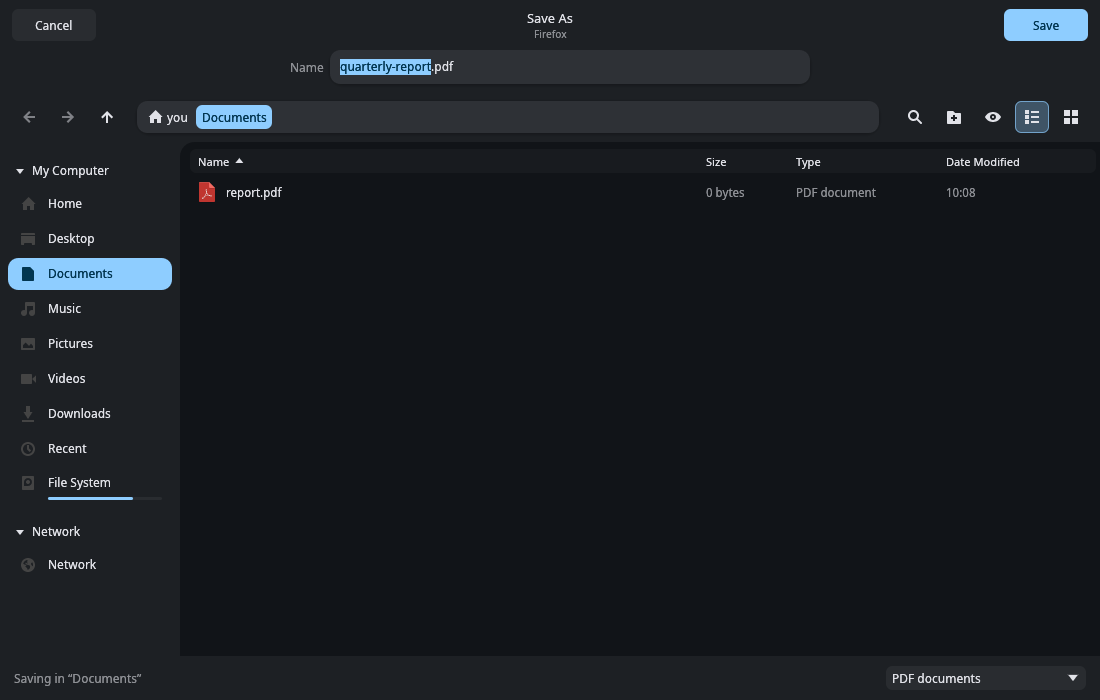
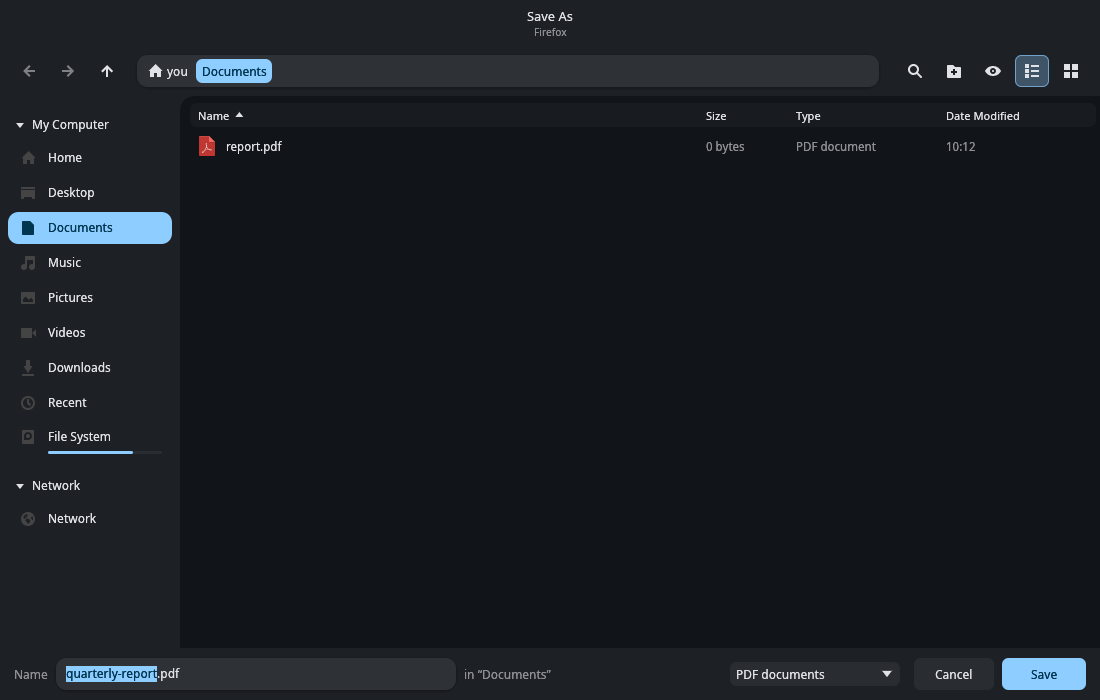
File picker: opens again after updates; controls back in the bottom strip
- The picker service started each window with current_exe(), which after
  a rebuild or update is the deleted old file, so no window appeared. It
  now uses the command it was started with (argv[0]), falling back to
  current_exe without " (deleted)".
- Turning the picker on asks the session bus to reload its services, so
  the portal's first call no longer fails with "not activatable".
- A service that lost the bus name to a newer copy exits instead of idling.
- Name field, Cancel, Open/Save and the file types sit in one bottom
  strip again; the title stays at the top.

diff --git a/src/app/pickview.rs b/src/app/pickview.rs
@@ -21,18 +21,15 @@ impl RivetApp {
         self.apps.iter().find(|a| bare(&a.id) == bare(&id)).map(|a| a.name.clone())
     }
 
-    /// Header bar: Cancel · title (and the asking app) · Open / Save. Then the name field when
-    /// saving. Call right after the window header so these sit at the very top.
+    /// The title across the top (and the app asking, under it). Call right after the window
+    /// header so it sits at the very top.
     pub(super) fn picker_header(&mut self, ui: &mut egui::Ui, ctx: &egui::Context) {
         let Some(req) = picker::request() else { return };
         let fill = ctx.global_style().visuals.panel_fill;
         let app = self.picker_app_name();
-        let mut accept = false;
-        let mut cancel = false;
-        egui::Panel::top("picker-head").show_separator_line(false).frame(egui::Frame::NONE.fill(fill).inner_margin(egui::Margin::symmetric(12, 8))).show(ui, |ui| {
+        egui::Panel::top("picker-head").show_separator_line(false).frame(egui::Frame::NONE.fill(fill).inner_margin(egui::Margin::symmetric(12, 6))).show(ui, |ui| {
             let v = ui.visuals().clone();
-            let (rect, _) = ui.allocate_exact_size(Vec2::new(ui.available_width(), 34.0), Sense::hover());
-            // The title in the middle of the bar, the app below it in small type.
+            let (rect, _) = ui.allocate_exact_size(Vec2::new(ui.available_width(), if app.is_some() { 34.0 } else { 24.0 }), Sense::hover());
             let title = req.window_title();
             let painter = ui.painter();
             match &app {
@@ -44,69 +41,93 @@ impl RivetApp {
                     painter.text(rect.center(), Align2::CENTER_CENTER, &title, crate::fonts::ui_font(14.5), v.strong_text_color());
                 }
             }
-            let mut left = ui.new_child(egui::UiBuilder::new().max_rect(rect).layout(egui::Layout::left_to_right(egui::Align::Center)));
-            if left.add(egui::Button::new("Cancel").min_size(Vec2::new(84.0, 32.0))).on_hover_text("Esc").clicked() {
-                cancel = true;
-            }
-            let mut right = ui.new_child(egui::UiBuilder::new().max_rect(rect).layout(egui::Layout::right_to_left(egui::Align::Center)));
-            let c = v.selection.bg_fill;
-            let btn = egui::Button::new(egui::RichText::new(req.accept_label()).color(v.selection.stroke.color).strong()).fill(c).min_size(Vec2::new(84.0, 32.0));
-            if right.add_enabled(self.picker_ready(), btn).clicked() {
-                accept = true;
-            }
         });
-        if req.mode == Mode::Save {
-            egui::Panel::top("picker-name").show_separator_line(false).frame(egui::Frame::NONE.fill(fill).inner_margin(egui::Margin { left: 12, right: 12, top: 0, bottom: 8 })).show(ui, |ui| {
+    }
+
+    /// The bottom strip: the name field when saving (or what's chosen), the app's file types,
+    /// Cancel and Open / Save. Call before the other panels so it sits outermost.
+    pub(super) fn picker_bar(&mut self, ui: &mut egui::Ui, ctx: &egui::Context) {
+        let Some(req) = picker::request() else { return };
+        let fill = ctx.global_style().visuals.panel_fill;
+        let mut accept = false;
+        let mut cancel = false;
+        egui::Panel::bottom("picker").show_separator_line(false).frame(egui::Frame::NONE.fill(fill).inner_margin(egui::Margin::symmetric(14, 10))).show(ui, |ui| {
+            ui.horizontal(|ui| {
+                ui.set_min_height(32.0);
+                ui.spacing_mut().item_spacing.x = 8.0;
                 let v = ui.visuals().clone();
-                let w = ui.available_width().min(520.0);
-                let full = ui.available_width();
-                ui.horizontal(|ui| {
-                    ui.add_space((full - w) / 2.0);
-                    ui.allocate_ui_with_layout(Vec2::new(w, 34.0), egui::Layout::left_to_right(egui::Align::Center), |ui| {
-                        ui.label(egui::RichText::new("Name").color(v.weak_text_color()));
-                        // The same raised surface as the location bar (a plain box in terminal mode).
-                        let (field_bg, shadow, stroke) = if self.s.terminal {
-                            (v.extreme_bg_color, egui::Shadow::NONE, super::tui_line(&v))
-                        } else {
-                            (
-                                crate::palette::mix(v.window_fill, v.text_color(), 0.04),
-                                egui::Shadow { offset: [0, 1], blur: 6, spread: 0, color: egui::Color32::from_black_alpha(if v.dark_mode { 90 } else { 40 }) },
-                                egui::Stroke::NONE,
-                            )
-                        };
-                        let out = egui::Frame::NONE
-                            .fill(field_bg)
-                            .shadow(shadow)
-                            .stroke(stroke)
-                            .corner_radius(super::r_md())
-                            .inner_margin(egui::Margin::symmetric(10, 4))
-                            .show(ui, |ui| {
-                                egui::TextEdit::singleline(&mut self.pick_name)
-                                    .frame(egui::Frame::NONE)
-                                    .align(Align2::LEFT_CENTER)
-                                    .min_size(Vec2::new(0.0, 24.0))
-                                    .desired_width(f32::INFINITY)
-                                    .hint_text("File name")
-                                    .show(ui)
-                            })
-                            .inner;
-                        // First time: focus the name with the part before the extension selected.
-                        if self.pick_focus {
-                            self.pick_focus = false;
-                            out.response.request_focus();
-                            let stem = self.pick_name.rfind('.').filter(|&i| i > 0).unwrap_or(self.pick_name.len());
-                            let mut state = out.state.clone();
-                            let stem_chars = self.pick_name[..stem].chars().count();
-                            state.cursor.set_char_range(Some(egui::text::CCursorRange::two(egui::text::CCursor::new(0), egui::text::CCursor::new(stem_chars))));
-                            state.store(ui.ctx(), out.response.id);
+                if req.mode == Mode::Save {
+                    ui.label(egui::RichText::new("Name").color(v.weak_text_color()));
+                    // The same raised surface as the location bar (a plain box in terminal mode).
+                    let (field_bg, shadow, stroke) = if self.s.terminal {
+                        (v.extreme_bg_color, egui::Shadow::NONE, super::tui_line(&v))
+                    } else {
+                        (
+                            crate::palette::mix(v.window_fill, v.text_color(), 0.04),
+                            egui::Shadow { offset: [0, 1], blur: 6, spread: 0, color: egui::Color32::from_black_alpha(if v.dark_mode { 90 } else { 40 }) },
+                            egui::Stroke::NONE,
+                        )
+                    };
+                    let width = (ui.available_width() - 480.0).clamp(180.0, 380.0);
+                    let out = egui::Frame::NONE
+                        .fill(field_bg)
+                        .shadow(shadow)
+                        .stroke(stroke)
+                        .corner_radius(super::r_md())
+                        .inner_margin(egui::Margin::symmetric(10, 4))
+                        .show(ui, |ui| {
+                            egui::TextEdit::singleline(&mut self.pick_name)
+                                .frame(egui::Frame::NONE)
+                                .align(Align2::LEFT_CENTER)
+                                .min_size(Vec2::new(0.0, 24.0))
+                                .desired_width(width)
+                                .hint_text("File name")
+                                .show(ui)
+                        })
+                        .inner;
+                    // First time: focus the name with the part before the extension selected.
+                    if self.pick_focus {
+                        self.pick_focus = false;
+                        out.response.request_focus();
+                        let stem = self.pick_name.rfind('.').filter(|&i| i > 0).unwrap_or(self.pick_name.len());
+                        let mut state = out.state.clone();
+                        let stem_chars = self.pick_name[..stem].chars().count();
+                        state.cursor.set_char_range(Some(egui::text::CCursorRange::two(egui::text::CCursor::new(0), egui::text::CCursor::new(stem_chars))));
+                        state.store(ui.ctx(), out.response.id);
+                    }
+                    if out.response.lost_focus() && ui.input(|i| i.key_pressed(Key::Enter)) {
+                        accept = true;
+                    }
+                }
+                ui.label(egui::RichText::new(self.picker_summary()).color(v.weak_text_color()));
+                ui.with_layout(egui::Layout::right_to_left(egui::Align::Center), |ui| {
+                    let c = v.selection.bg_fill;
+                    let btn = egui::Button::new(egui::RichText::new(req.accept_label()).color(v.selection.stroke.color).strong()).fill(c).min_size(Vec2::new(84.0, 32.0));
+                    if ui.add_enabled(self.picker_ready(), btn).clicked() {
+                        accept = true;
+                    }
+                    if ui.add(egui::Button::new("Cancel").min_size(Vec2::new(80.0, 32.0))).on_hover_text("Esc").clicked() {
+                        cancel = true;
+                    }
+                    // The file-type list the app offered.
+                    if !req.filters.is_empty() && !req.folders_only() {
+                        ui.add_space(6.0);
+                        let current = picker::chosen_filter();
+                        let shown = current.and_then(|i| req.filters.get(i)).map(|f| f.name.clone()).unwrap_or_else(|| "All files".into());
+                        let mut pick = current;
+                        egui::ComboBox::from_id_salt("picker-type").selected_text(shown).width(170.0).show_ui(ui, |ui| {
+                            for (i, f) in req.filters.iter().enumerate() {
+                                ui.selectable_value(&mut pick, Some(i), f.name.as_str());
+                            }
+                        });
+                        if pick != current {
+                            picker::set_chosen_filter(pick);
+                            self.resort_all();
                         }
-                        if out.response.lost_focus() && ui.input(|i| i.key_pressed(Key::Enter)) {
-                            accept = true;
-                        }
-                    });
+                    }
                 });
             });
-        }
+        });
         // Esc closes the picker when there's nothing else for it to do.
         let idle = matches!(self.dialog, super::Dialog::None)
             && !self.search_open
@@ -126,38 +147,6 @@ impl RivetApp {
             self.picker_accept(ctx);
         }
         self.picker_confirm(ctx);
-    }
-
-    /// The bottom strip: what's chosen, and the app's file types. Call before the other panels
-    /// so it sits outermost.
-    pub(super) fn picker_bar(&mut self, ui: &mut egui::Ui, ctx: &egui::Context) {
-        let Some(req) = picker::request() else { return };
-        let fill = ctx.global_style().visuals.panel_fill;
-        egui::Panel::bottom("picker").show_separator_line(false).frame(egui::Frame::NONE.fill(fill).inner_margin(egui::Margin::symmetric(14, 8))).show(ui, |ui| {
-            ui.horizontal(|ui| {
-                ui.set_min_height(28.0);
-                let v = ui.visuals().clone();
-                let text = self.picker_summary();
-                ui.label(egui::RichText::new(text).color(v.weak_text_color()));
-                ui.with_layout(egui::Layout::right_to_left(egui::Align::Center), |ui| {
-                    // The file-type list the app offered.
-                    if !req.filters.is_empty() && !req.folders_only() {
-                        let current = picker::chosen_filter();
-                        let shown = current.and_then(|i| req.filters.get(i)).map(|f| f.name.clone()).unwrap_or_else(|| "All files".into());
-                        let mut pick = current;
-                        egui::ComboBox::from_id_salt("picker-type").selected_text(shown).width(200.0).show_ui(ui, |ui| {
-                            for (i, f) in req.filters.iter().enumerate() {
-                                ui.selectable_value(&mut pick, Some(i), f.name.as_str());
-                            }
-                        });
-                        if pick != current {
-                            picker::set_chosen_filter(pick);
-                            self.resort_all();
-                        }
-                    }
-                });
-            });
-        });
     }
 
     /// Right-click on an item while picking: choose it, and a few harmless extras.
@@ -223,7 +212,7 @@ impl RivetApp {
         }
         if req.mode == Mode::Save {
             let here = self.current_dir().and_then(|d| d.file_name().map(|n| n.to_string_lossy().to_string())).unwrap_or_else(|| "/".into());
-            return format!("Saving in “{here}”");
+            return format!("in “{here}”");
         }
         let files = sel.iter().filter(|e| !e.is_dir).count();
         match files {

diff --git a/src/portal.rs b/src/portal.rs
@@ -170,13 +170,29 @@ impl Chooser {
 }
 
 /// The program to run for each picker window: this one (or the AppImage it came from).
+///
+/// The command the service was started with comes first (`/usr/bin/rivet`): when Rivet is
+/// updated while this service runs, its own program file is replaced and `current_exe` points
+/// at the old, deleted one, which can't be started.
 fn picker_exe() -> PathBuf {
     if let (Some(img), Some(dir)) = (std::env::var_os("APPIMAGE"), std::env::var_os("APPDIR"))
         && std::env::current_exe().is_ok_and(|e| e.starts_with(&dir))
     {
         return PathBuf::from(img);
     }
-    std::env::current_exe().unwrap_or_else(|_| PathBuf::from("rivet"))
+    if let Some(arg0) = std::env::args_os().next().map(PathBuf::from)
+        && arg0.is_absolute()
+        && arg0.is_file()
+    {
+        return arg0;
+    }
+    match std::env::current_exe() {
+        Ok(e) => {
+            let s = e.to_string_lossy();
+            PathBuf::from(s.strip_suffix(" (deleted)").unwrap_or(&s).to_string())
+        }
+        Err(_) => PathBuf::from("rivet"),
+    }
 }
 
 fn get<T>(o: &Options, key: &str) -> Option<T>
@@ -255,17 +271,26 @@ fn results(r: &Request, a: &Answer) -> Results {
 /// Serve requests until idle for a while.
 pub fn run() -> Result<(), String> {
     let shared = Shared::default();
-    let _conn = zbus::blocking::connection::Builder::session()
+    let conn = zbus::blocking::connection::Builder::session()
         .and_then(|b| b.name(BUS_NAME))
         .and_then(|b| b.serve_at(OBJECT_PATH, Chooser { shared: shared.clone() }))
         .and_then(|b| b.build())
         .map_err(|e| format!("Could not start the file picker service: {e}"))?;
     *shared.last_used.lock().unwrap_or_else(|e| e.into_inner()) = Some(Instant::now());
+    let me = conn.unique_name().map(|n| n.to_string());
     loop {
-        std::thread::sleep(Duration::from_secs(30));
+        std::thread::sleep(Duration::from_secs(20));
         let busy = !shared.open.lock().unwrap_or_else(|e| e.into_inner()).is_empty();
         let idle = shared.last_used.lock().unwrap_or_else(|e| e.into_inner()).is_some_and(|t| t.elapsed() > IDLE_EXIT);
         if idle && !busy {
+            return Ok(());
+        }
+        // A newer copy took over the name (the bus started it after an update): leave to it.
+        let owner = zbus::blocking::fdo::DBusProxy::new(&conn)
+            .ok()
+            .and_then(|p| p.get_name_owner(BUS_NAME.try_into().ok()?).ok())
+            .map(|o| o.to_string());
+        if !busy && owner.is_some() && owner != me {
             return Ok(());
         }
     }

diff --git a/src/portal_setup.rs b/src/portal_setup.rs
@@ -270,6 +270,13 @@ fn restart_portal() {
     if std::env::var_os("RIVET_NO_PORTAL_RESTART").is_some() {
         return;
     }
+    // The session bus reads its list of startable services on demand only: without this, the
+    // portal's first call says Rivet's picker "is not activatable".
+    if let Ok(conn) = zbus::blocking::Connection::session()
+        && let Ok(proxy) = zbus::blocking::fdo::DBusProxy::new(&conn)
+    {
+        let _ = proxy.reload_config();
+    }
     let _ = std::process::Command::new("systemctl")
         .args(["--user", "restart", "xdg-desktop-portal.service"])
         .stdout(std::process::Stdio::null())

diff --git a/CHANGELOG.md b/CHANGELOG.md
@@ -11,9 +11,11 @@
   of the pickers used before (kept as fallbacks) in your `<desktop>-portals.conf`, and turning it
   off restores that line exactly and removes the files it added. Not available inside Flatpak.
   (The D-Bus support it needs adds about 2.5 MB to the program.)
-  The picker window is laid out like GNOME's: Cancel, the title (and the app asking) and the
-  Open / Save button across the top, the name field under it, a short toolbar and the list view;
-  no menu bar, status bar, Peek, tabs or Trash, and nothing that moves, deletes or changes files.
+  The picker window has the title (and the app asking) across the top, a short toolbar and the
+  list view, and one strip along the bottom with the name field, where it saves, the file types,
+  Cancel and Open / Save; no menu bar, status bar, Peek, tabs or Trash, and nothing that moves,
+  deletes or changes files. The picker keeps working after Rivet is updated while its service
+  runs, and turning it on makes the session bus pick up the new service right away.
 - **Crash reports**: if Rivet stops because of a bug, it saves a plain-text report on this computer
   (`~/.local/state/rivet/crashes`) — version, what went wrong and where, the stack, and the system.
   Nothing is sent anywhere. The next start shows it once, with Copy Report, Open Folder and Report
